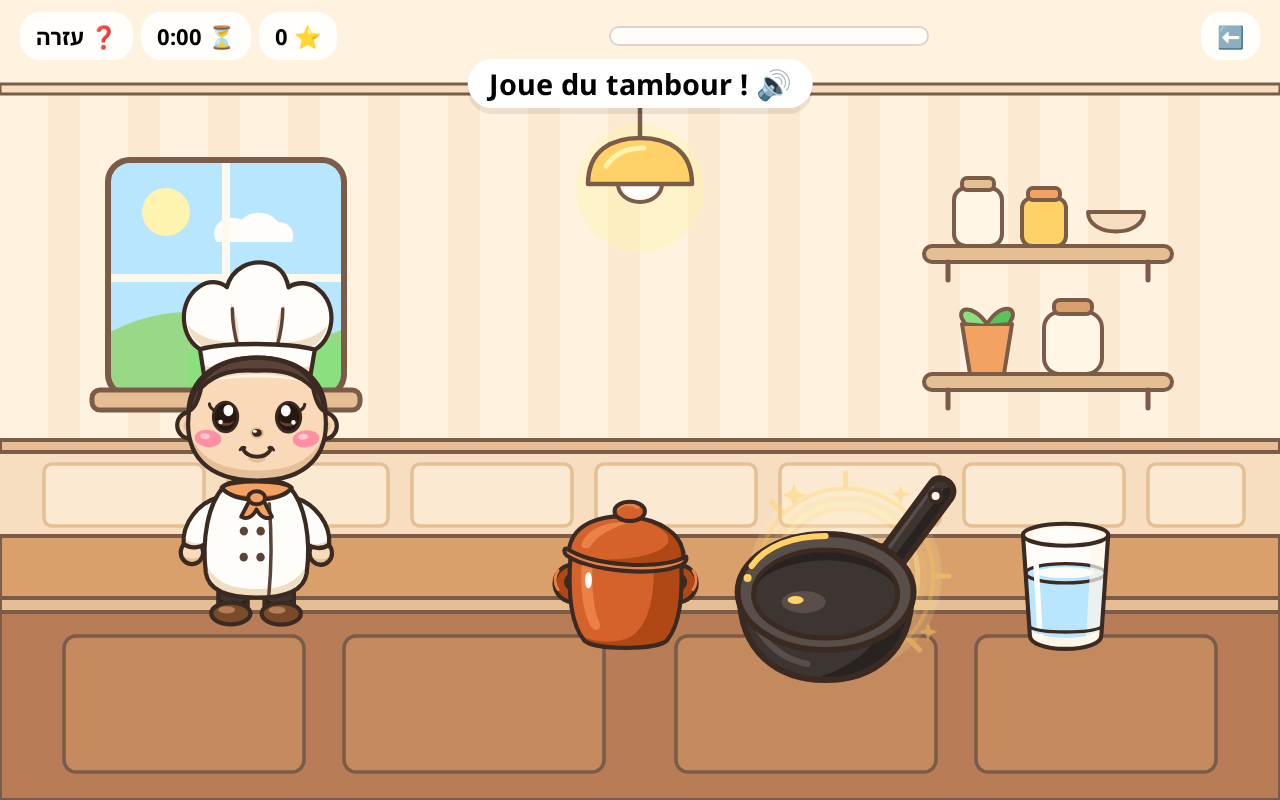
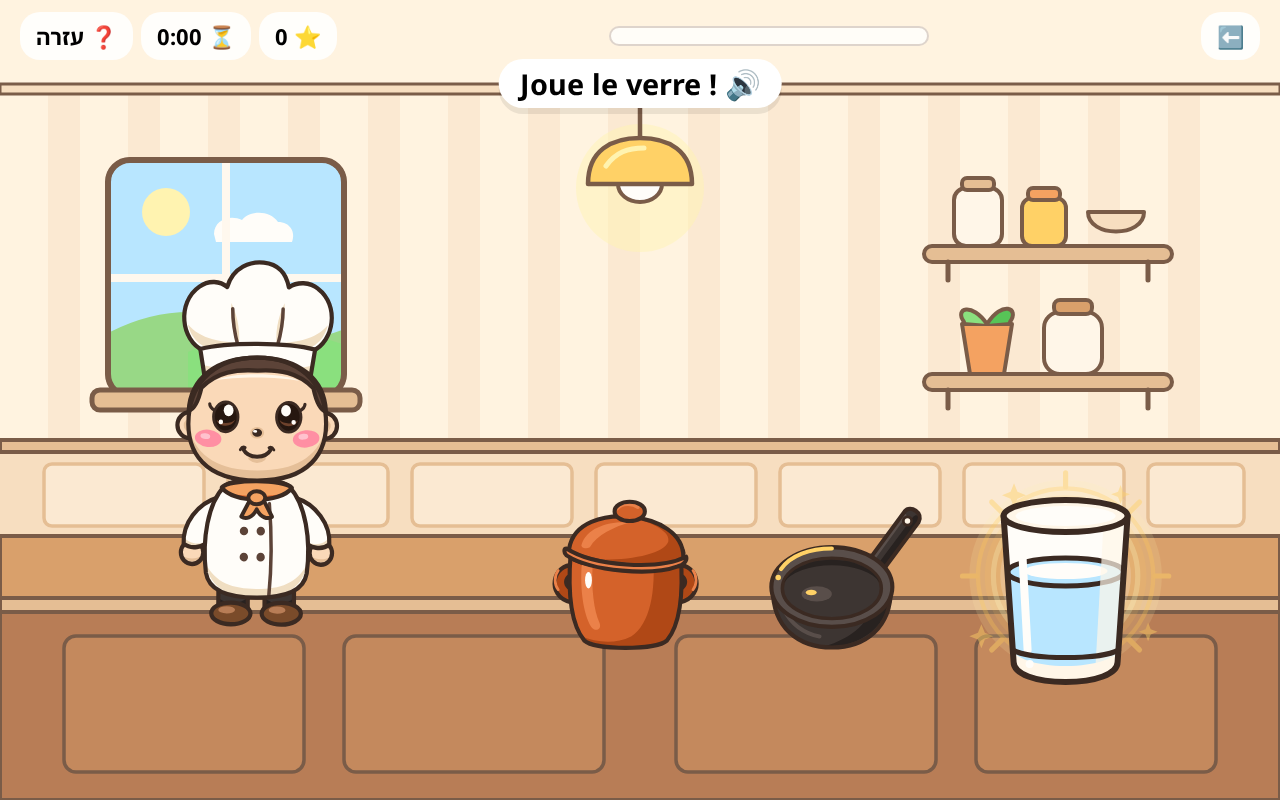
fix(orchestra): plant the chef on the portrait counter
In portrait the chef's feet were at 60% of the screen height, which
put them in the wallpaper above the backsplash. Feet now sit on the
counter top from the kitchen art (y=856 in the 1280-tall background),
and the chef is drawn behind the instruments so they appear to stand
behind the counter. Landscape is unchanged.

Changed region(s): [[0.5625, 0.5938, 0.9062, 0.875], [0.3438, 0.0625, 0.6562, 0.1562], [0.1562, 0.5, 0.1875, 0.5312]]

diff --git a/src/games/orchestra/orchestraLayout.ts b/src/games/orchestra/orchestraLayout.ts
@@ -5,26 +5,51 @@ export interface InstrumentSlot {
   size: number;
 }
 
+export interface ChefSlot {
+  x: number;
+  feetY: number;
+  displayHeight: number;
+  /** Behind the instruments in portrait (they sit on the counter in front). */
+  depth: number;
+}
+
 export interface OrchestraLayout {
   portrait: boolean;
   backgroundKey: 'bg-landscape' | 'bg-portrait';
-  chef: { x: number; feetY: number; displayHeight: number };
+  chef: ChefSlot;
   instruments: InstrumentSlot[];
 }
+
+/**
+ * Counter-top Y in the kitchen background SVGs, as a fraction of the art height.
+ * Portrait: `bg-portrait.svg` counter starts at y=856 in a 1280-tall viewBox.
+ * The chef's feet plant here so they stand behind the counter, not in the wall.
+ */
+export const PORTRAIT_COUNTER_TOP = 856 / 1280;
+
+/** Instruments sit a little below the counter lip, on the wooden surface. */
+const PORTRAIT_INSTRUMENT_Y = 0.68;
+const LANDSCAPE_INSTRUMENT_Y = 0.72;
 
 export function computeOrchestraLayout(width: number, height: number, choiceCount: number): OrchestraLayout {
   const portrait = height > width;
   const size = portrait ? Math.min(168, Math.floor(width / (choiceCount + 0.6))) : Math.min(176, Math.floor((width * 0.62) / choiceCount));
-  const rowY = portrait ? height * 0.68 : height * 0.72;
+  const rowY = portrait ? height * PORTRAIT_INSTRUMENT_Y : height * LANDSCAPE_INSTRUMENT_Y;
   const rowWidth = size * choiceCount + size * 0.25 * (choiceCount - 1);
   const startX = portrait ? (width - rowWidth) / 2 + size / 2 : width * 0.42 + size / 2;
   const instruments: InstrumentSlot[] = [];
   for (let i = 0; i < choiceCount; i++) {
     instruments.push({ x: startX + i * (size * 1.25), y: rowY, size });
   }
-  const chef = portrait
-    ? { x: width * 0.5, feetY: height * 0.60, displayHeight: Math.min(260, height * 0.26) }
-    : { x: width * 0.2, feetY: height * 0.78, displayHeight: Math.min(340, height * 0.48) };
+  const chef: ChefSlot = portrait
+    ? {
+        x: width * 0.5,
+        feetY: height * PORTRAIT_COUNTER_TOP,
+        displayHeight: Math.min(280, height * 0.28),
+        // In front of the background (0), behind the instruments (3).
+        depth: 2,
+      }
+    : { x: width * 0.2, feetY: height * 0.78, displayHeight: Math.min(340, height * 0.48), depth: 4 };
   return {
     portrait,
     backgroundKey: portrait ? 'bg-portrait' : 'bg-landscape',

diff --git a/tests/unit/orchestraLayout.test.ts b/tests/unit/orchestraLayout.test.ts
@@ -1,0 +1,41 @@
+import { describe, it, expect } from 'vitest';
+import { computeOrchestraLayout, PORTRAIT_COUNTER_TOP } from '../../src/games/orchestra/orchestraLayout';
+
+describe('Kitchen Orchestra layout', () => {
+  it('plants the chef on the counter in portrait, behind the instruments, not in the wall', () => {
+    const layout = computeOrchestraLayout(800, 1280, 3);
+    expect(layout.portrait).toBe(true);
+    // Counter top in public/art/scenes/kitchen/bg-portrait.svg is y=856.
+    expect(PORTRAIT_COUNTER_TOP).toBeCloseTo(856 / 1280);
+    expect(layout.chef.feetY).toBeCloseTo(800 * 0 + 1280 * PORTRAIT_COUNTER_TOP);
+    expect(layout.chef.feetY).toBeCloseTo(856);
+    const instrumentY = layout.instruments[0]!.y;
+    // Feet sit on the counter, at or just above the instrument row, not up in the wallpaper.
+    expect(layout.chef.feetY).toBeGreaterThan(1280 * 0.64);
+    expect(layout.chef.feetY).toBeLessThanOrEqual(instrumentY);
+    expect(Math.abs(layout.chef.feetY - instrumentY)).toBeLessThan(30);
+    // Head stays below the HUD band (y≈86) and the pendant lamp.
+    expect(layout.chef.feetY - layout.chef.displayHeight).toBeGreaterThan(200);
+    expect(layout.chef.depth).toBeLessThan(3);
+    expect(layout.chef.depth).toBeGreaterThan(0);
+  });
+
+  it('keeps the landscape chef on the floor to the left of the instruments', () => {
+    const layout = computeOrchestraLayout(1280, 800, 3);
+    expect(layout.portrait).toBe(false);
+    expect(layout.chef.x).toBeCloseTo(1280 * 0.2);
+    expect(layout.chef.feetY).toBeCloseTo(800 * 0.78);
+    expect(layout.chef.displayHeight).toBe(340);
+    expect(layout.chef.x).toBeLessThan(layout.instruments[0]!.x);
+    expect(layout.chef.depth).toBe(4);
+  });
+
+  it('still plants the portrait chef on the counter when there are four or five instruments', () => {
+    for (const count of [4, 5]) {
+      const layout = computeOrchestraLayout(800, 1280, count);
+      expect(layout.chef.feetY).toBeCloseTo(856);
+      expect(layout.instruments).toHaveLength(count);
+      expect(layout.chef.depth).toBeLessThan(3);
+    }
+  });
+});

diff --git a/src/games/orchestra/OrchestraScene.ts b/src/games/orchestra/OrchestraScene.ts
@@ -266,7 +266,7 @@ export class OrchestraScene extends Phaser.Scene {
       x: chefPos.x,
       y: chefPos.feetY,
       displayHeight: chefPos.displayHeight,
-      depth: 4,
+      depth: chefPos.depth,
     });
 
     const glowKey = fxArtKey('instrument-glow');
